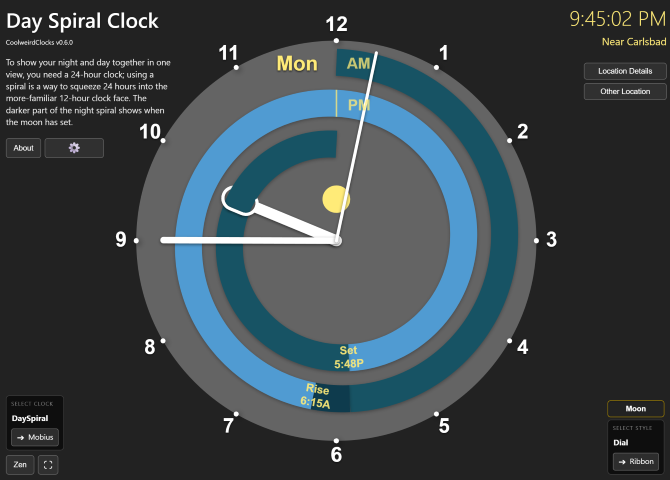
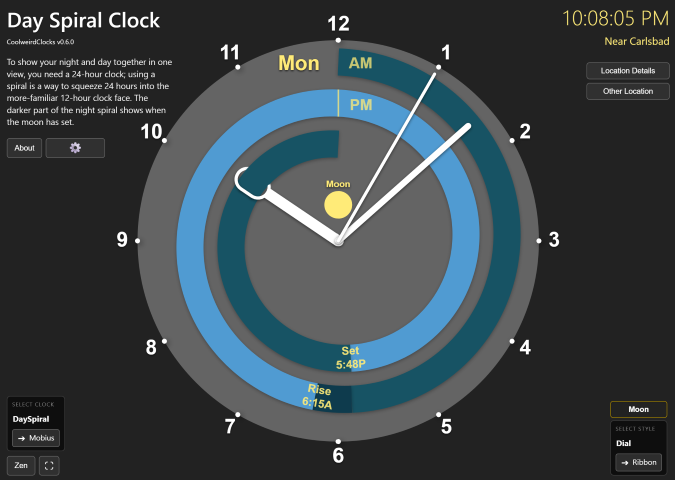
Added "Moon" label above the moon phase graphic and updated readme screenshot

diff --git a/js/renderers/DaySpiralRenderer.js b/js/renderers/DaySpiralRenderer.js
@@ -2105,8 +2105,16 @@ class DaySpiralRenderer extends ClockRenderer {
         }
 
         let edgeR = innerR - (sw / 2);
-        let y = this.centerY - (edgeR / 2);
         let D = this.fontSize * 1.35;
+
+        // Define label parameters to center the combined graphic
+        let labelFontSize = this.fontSize * 0.44; // 20% smaller than 0.55
+        let labelGap = this.fontSize * 0.10; // Tighten the gap slightly
+
+        // The center of the available space is this.centerY - (edgeR / 2).
+        // To center the combination of the label, the gap, and the moon graphic, 
+        // we shift the moon graphic down by half the size of the label+gap.
+        let y = this.centerY - (edgeR / 2) + (labelFontSize + labelGap) / 2;
 
         // Flip light direction if Southern Hemisphere
         if (lat < 0) {
@@ -2150,6 +2158,22 @@ class DaySpiralRenderer extends ClockRenderer {
                 }
             }
         }
+
+        // 3. Draw "Moon" Label above the graphic
+        fill(255, 235, 120, 255);
+        textSize(labelFontSize);
+        textStyle(BOLD);
+        textAlign(CENTER, BOTTOM);
+
+        this._applyShadow(8, 0, 4, 'rgba(0,0,0,0.7)');
+        let labelY = y - (D / 2) - labelGap;
+
+        push();
+        translate(x, labelY);
+        text("Moon", 0, 0);
+        pop();
+
+        this._resetShadow();
 
         pop();
     }
